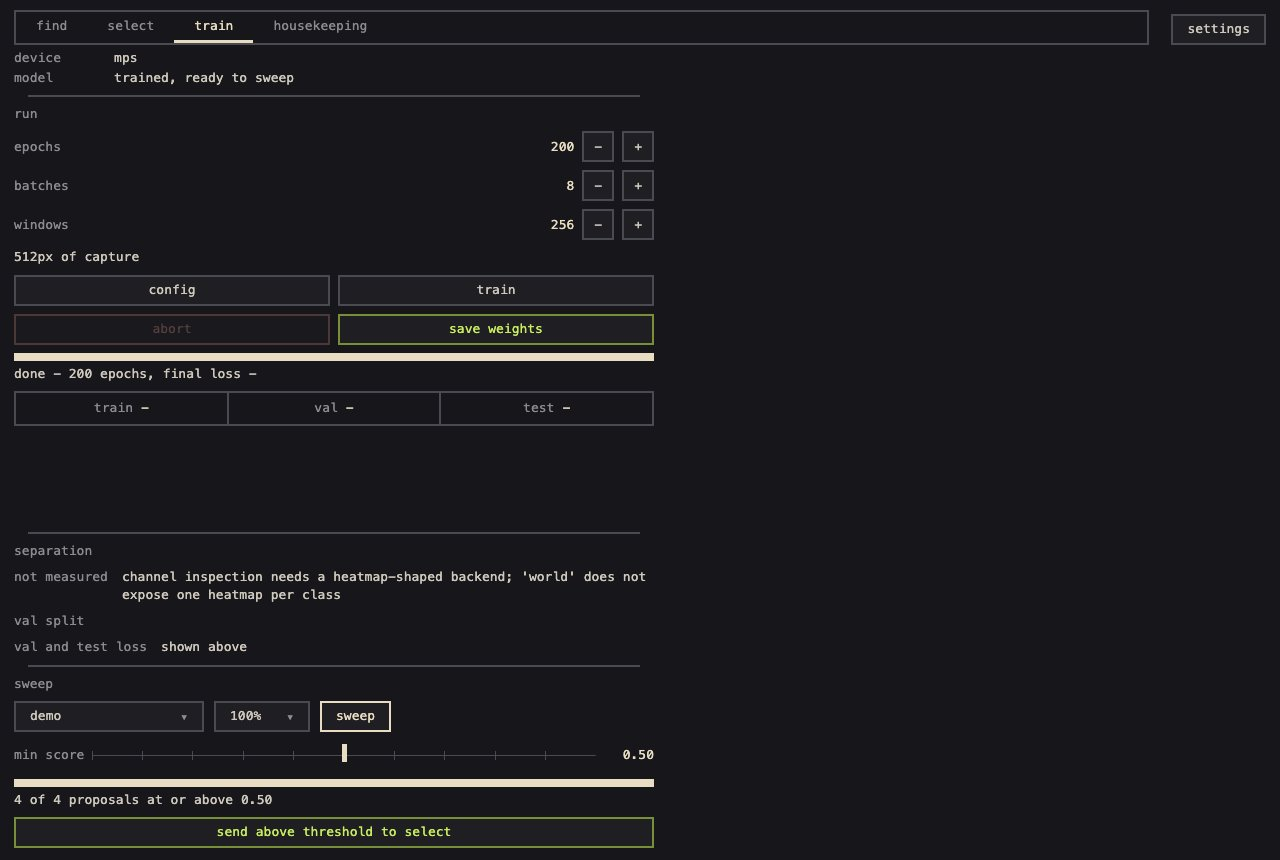
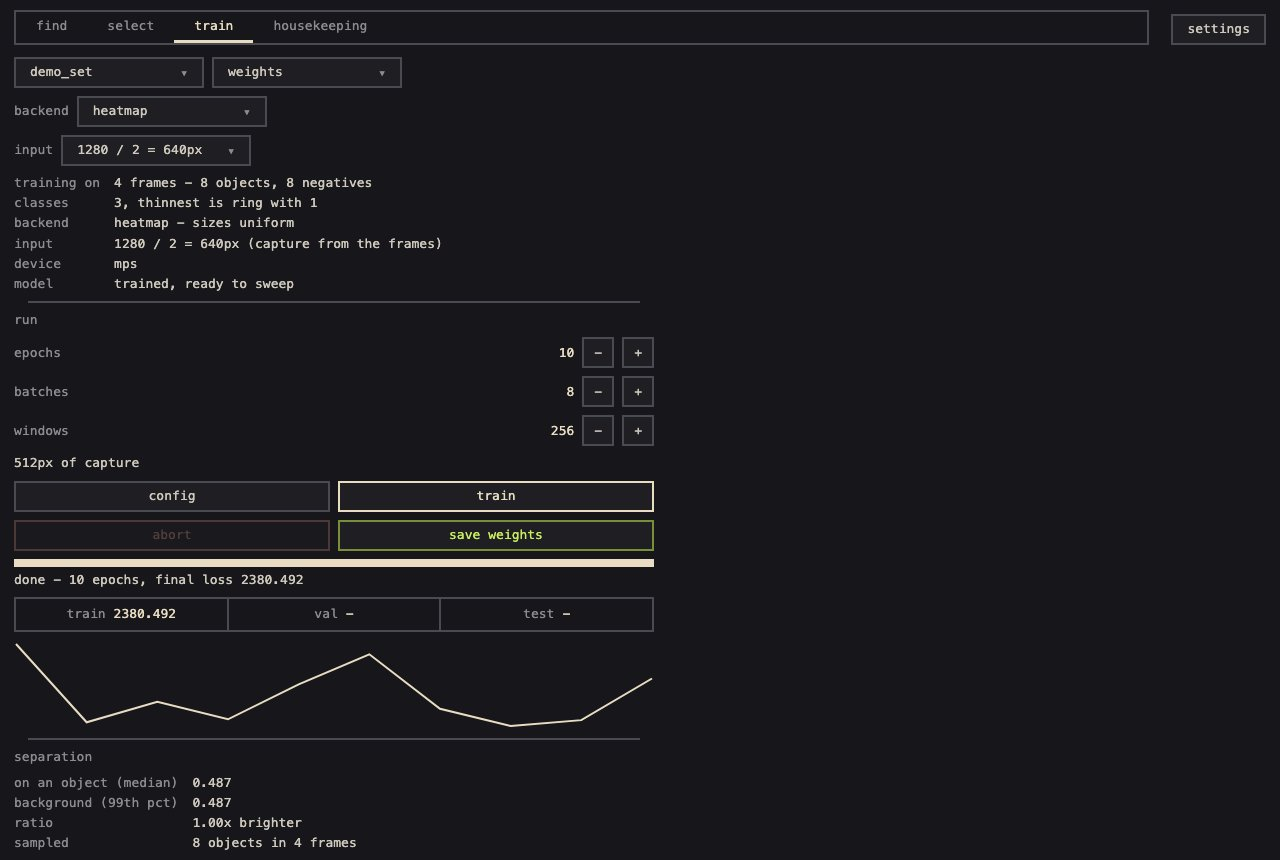
shot the train tab on the real heatmap backend
the screenshot script trained the suite's fake backend, which has no
loss and no separation to show; it runs the heatmap backend for ten
epochs now, waits for the summary to refresh, and shoots the sweep
controls separately. the guide shows the sweep shot in its train section.

Claude-Session: https://claude.ai/code/session_01Ke1KA9BLECwu7WjwBJM1x3

diff --git a/tools/shoot_docs_images.py b/tools/shoot_docs_images.py
@@ -86,7 +86,6 @@ def seed(base: str, boxes: list[dict]) -> None:
 
 def shoot(out: Path) -> None:
     out.mkdir(parents=True, exist_ok=True)
-    review_world.register_world_backend()
     with tempfile.TemporaryDirectory() as tmp, pytest.MonkeyPatch.context() as patch:
         world = review_world.make_world(Path(tmp), patch, recordings=("demo",), frames=0)
         frames_dir = world.sessions / "demo" / "frames"
@@ -94,7 +93,9 @@ def shoot(out: Path) -> None:
         boxes = write_frames(frames_dir)
         review_world.save_definition("kinds", KINDS)
         app = build_app(
-            backend="world",
+            # the real heatmap backend: a short run on four frames gives a real loss curve and a
+            # real separation readout, which the suite's fake backend cannot
+            backend="heatmap",
             ui_dir=STATIC,
             tabs=[hyperparams_tab()],
             pool=world.tiles,
@@ -142,20 +143,36 @@ def shoot(out: Path) -> None:
                     'document.getElementById("train-summary").innerText.includes("objects")'
                 )
                 dismiss(page)
+                # 200 epochs is the default; twenty is enough for a curve and quick on cpu
+                for _ in range(4):
+                    page.click('[data-stepper="epochs"] [data-step="-50"]')
+                page.click('[data-stepper="epochs"] [data-step="50"]')
+                page.click('[data-stepper="epochs"] [data-step="-50"]')
                 page.click("#train-start")
                 page.wait_for_function(
                     'document.getElementById("train-progress-text").innerText.startsWith("done")',
+                    timeout=600000,
+                )
+                # the summary and the separation readout refresh after the run reports done
+                page.wait_for_function(
+                    'document.getElementById("train-summary").innerText.includes("ready to sweep")',
                     timeout=30000,
                 )
+                page.wait_for_timeout(1500)
+                page.evaluate("window.scrollTo(0, 0)")
+                page.wait_for_timeout(200)
+                page.screenshot(path=str(out / "train.jpg"), type="jpeg", quality=85)
                 page.click("#sweep-open")
                 page.click('.menu-item:has-text("demo")')
                 page.click("#sweep-start")
                 page.wait_for_function(
-                    'document.getElementById("sweep-progress-text").innerText.includes("proposals") || document.getElementById("sweep-progress-text").innerText.includes("floor")',
-                    timeout=30000,
+                    'document.getElementById("sweep-progress-text").innerText.includes("proposals")'
+                    ' || document.getElementById("sweep-progress-text").innerText.includes("floor")',
+                    timeout=300000,
                 )
                 page.wait_for_timeout(300)
-                page.screenshot(path=str(out / "train.jpg"), type="jpeg", quality=85)
+                page.locator("#sweep-send").scroll_into_view_if_needed()
+                page.screenshot(path=str(out / "train-sweep.jpg"), type="jpeg", quality=85)
 
                 show_tab(page, "housekeeping")
                 page.wait_for_timeout(400)
@@ -164,7 +181,6 @@ def shoot(out: Path) -> None:
         finally:
             server.shutdown()
             server.server_close()
-            review_world.unregister_world_backend()
     print(f"wrote {', '.join(p.name for p in sorted(out.glob('*.jpg')))} to {out}")
 
 

diff --git a/docs/GUIDE.md b/docs/GUIDE.md
@@ -193,6 +193,8 @@ The settings popup browses folders rather than taking typed paths, and remembers
   background (99th percentile), on a sample of frames - the number a sweep threshold is chosen
   against. **val split** / test loss need a backend with `evaluate()`; heatmap and box have one, and
   it scores one fixed window per frame, so read it as a trend.
+![The sweep controls: recording, share, min score, the proposals found, and the send button](images/train-sweep.jpg)
+
 - **sweep**: pick a recording and how much of it, set the min score, sweep. A frame narrower or
   wider than the weights' capture width is resampled and the warning says so. **send above
   threshold to select** cuts the proposals above the slider into the pool and switches tabs.
